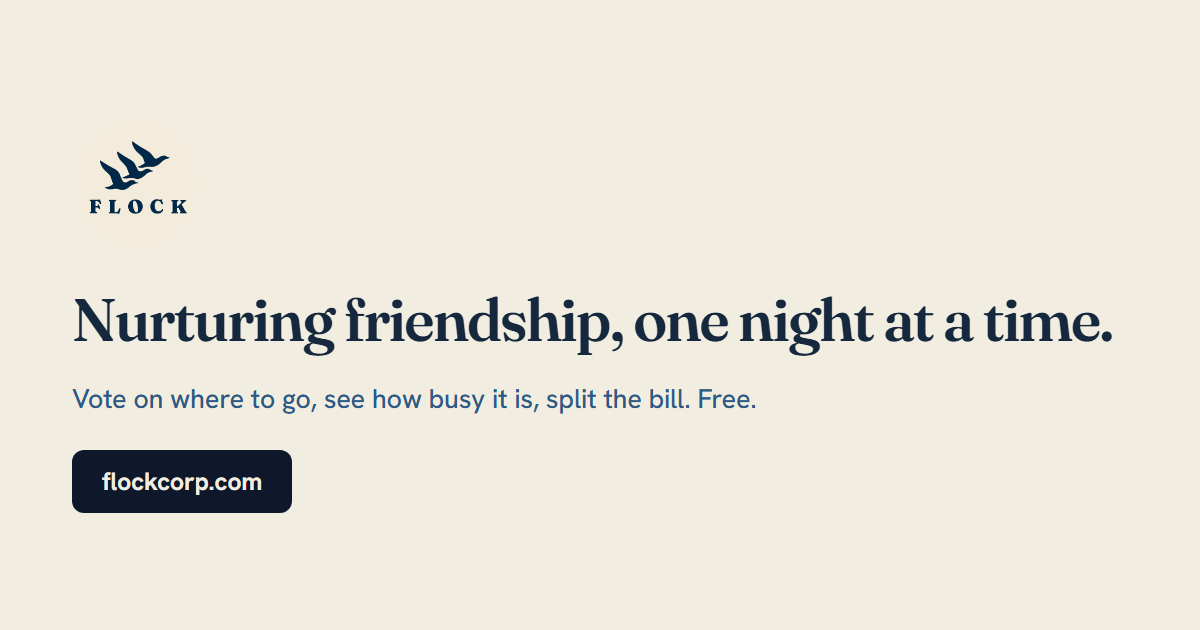
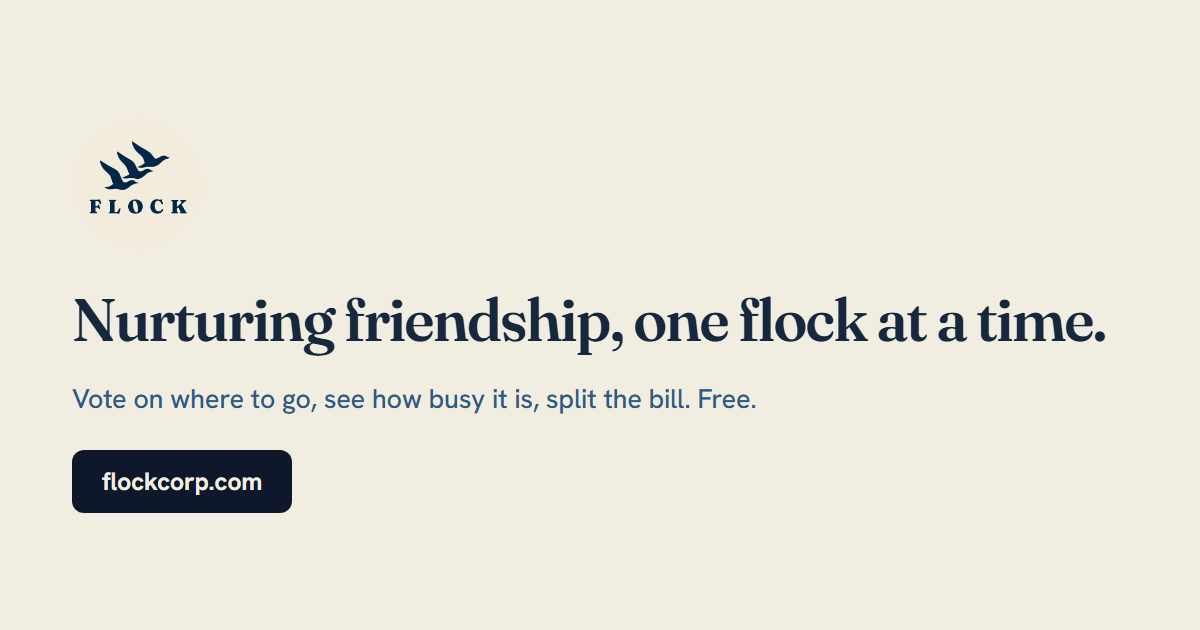
Tagline is "Nurturing friendship, one flock at a time"

Changed region(s): [[0.6167, 0.4524, 0.925, 0.573]]

diff --git a/frontend/public/index.html b/frontend/public/index.html
@@ -141,21 +141,21 @@
            PAYWALL_ENABLED is unset; if the paywall is ever switched on, this
            copy and the landing page change together.
          ═══════════════════════════════════════════════════════════════════ -->
-    <meta property="og:title" content="Flock | Plans that actually happen" />
+    <meta property="og:title" content="Flock | Nurturing friendship, one flock at a time" />
     <meta property="og:description" content="Vote on where to go, see how busy it is before you leave, and split the bill after. Free." />
     <meta property="og:image" content="https://www.flockcorp.com/og-image.png" />
     <meta property="og:image:width" content="1200" />
     <meta property="og:image:height" content="630" />
     <meta property="og:image:type" content="image/png" />
-    <meta property="og:image:alt" content="Flock. Nurturing friendship, one night at a time." />
+    <meta property="og:image:alt" content="Flock. Nurturing friendship, one flock at a time." />
     <meta property="og:type" content="website" />
     <meta property="og:site_name" content="Flock" />
     <meta property="og:locale" content="en_US" />
     <meta name="twitter:card" content="summary_large_image" />
-    <meta name="twitter:title" content="Flock | Plans that actually happen" />
+    <meta name="twitter:title" content="Flock | Nurturing friendship, one flock at a time" />
     <meta name="twitter:description" content="Vote on where to go, see how busy it is before you leave, and split the bill after. Free." />
     <meta name="twitter:image" content="https://www.flockcorp.com/og-image.png" />
-    <meta name="twitter:image:alt" content="Flock. Nurturing friendship, one night at a time." />
+    <meta name="twitter:image:alt" content="Flock. Nurturing friendship, one flock at a time." />
 
     <!-- Icons. The sizes below are the real contents of each file, not a wish
          list: favicon.ico is a 3-image ICO (16/32/48, verified by reading its
@@ -192,7 +192,7 @@
     <link rel="preconnect" href="https://api.flockcorp.com" crossorigin />
 
     <link rel="manifest" href="%PUBLIC_URL%/manifest.json" />
-    <title>Flock | Plans that actually happen</title>
+    <title>Flock | Nurturing friendship, one flock at a time</title>
 
     <!-- ═══════════════════════════════════════════════════════════════════
          STRUCTURED DATA (JSON-LD)

diff --git a/frontend/api/marketing-page.js b/frontend/api/marketing-page.js
@@ -102,7 +102,7 @@
 
 const CANONICAL_HOST = 'https://www.flockcorp.com';
 const OG_IMAGE = CANONICAL_HOST + '/og-image.png';
-const OG_IMAGE_ALT = 'Flock. Nurturing friendship, one night at a time.';
+const OG_IMAGE_ALT = 'Flock. Nurturing friendship, one flock at a time.';
 const CONTACT_EMAIL = 'social@flockcorp.com';
 
 // Title and description per route mirror what each React page writes via its
@@ -111,7 +111,7 @@ const CONTACT_EMAIL = 'social@flockcorp.com';
 const PAGE_META = {
   home: {
     path: '/',
-    title: 'Flock | Plans that actually happen',
+    title: 'Flock | Nurturing friendship, one flock at a time',
     description: 'Flock turns “we should hang out” into a real night out. Vote on where to go, see how busy it is before you leave, split the bill, and go.',
   },
   about: {
@@ -140,7 +140,7 @@ const PAGE_META = {
 // drift test told you to; see the regeneration note in the header.
 const PAGE_BLOCKS = {
   home: [
-    ["h1", "Nurturing friendship, one night at a time."],
+    ["h1", "Nurturing friendship, one flock at a time."],
     ["p", "Start a flock, invite your people, and vote on where to go. Everyone ends up on the same plan without the 200-message thread."],
     ["p", "Free, and it runs in your browser right now, so there’s nothing to download. Flock took 1st place at PA DECA States."],
     ["h2", "Six people say yes. Then the chat goes quiet."],
@@ -1019,7 +1019,7 @@ async function handler(req, res) {
     console.error('marketing-page: fallback document:', (err && err.name) || 'Error');
     try {
       send(res, '<!doctype html>\n<html lang="en"><head><meta charset="utf-8">'
-        + '<title>Flock | Plans that actually happen</title>'
+        + '<title>Flock | Nurturing friendship, one flock at a time</title>'
         + '<meta name="description" content="Flock is a free group planning app. Vote on where to go, see how busy it is before you leave, and split the bill after.">'
         + '</head><body><main><h1>Flock</h1>'
         + '<p>Flock is a free group planning app. Start a flock, invite your people, vote on where to go, match budgets privately, and split the bill after.</p>'

diff --git a/frontend/api/invite-preview.js b/frontend/api/invite-preview.js
@@ -8,7 +8,7 @@ const crypto = require('crypto');
 // WHY THIS EXISTS
 // One index.html is served for every route (CRA has no server rendering), so
 // an invite shared into iMessage or a group chat previews with the marketing
-// tags: "Flock | Plans that actually happen". The link that spreads the product
+// tags: "Flock | Nurturing friendship, one flock at a time". The link that spreads the product
 // says nothing about who sent it or what it is. This function answers the
 // preview bots instead, with the host's first name and the plan.
 //
@@ -133,7 +133,7 @@ const CANONICAL_HOST = 'https://www.flockcorp.com';
 // apex -> www redirect when fetching an image. Same file and same dimensions as
 // the default tags in public/index.html; keep them in sync.
 const OG_IMAGE = CANONICAL_HOST + '/og-image.png';
-const OG_IMAGE_ALT = 'Flock. Nurturing friendship, one night at a time.';
+const OG_IMAGE_ALT = 'Flock. Nurturing friendship, one flock at a time.';
 
 // The per-flock card URL carries a signature when OG_CARD_SECRET is set. The
 // Cloudflare Pages project and the API service hold that secret; Vercel never
@@ -203,7 +203,7 @@ const DISPLAY_TZ = 'America/New_York';
 
 // Verbatim from public/index.html, so a fallback preview is indistinguishable
 // from what the site serves today.
-const DEFAULT_TITLE = 'Flock | Plans that actually happen';
+const DEFAULT_TITLE = 'Flock | Nurturing friendship, one flock at a time';
 const DEFAULT_DESCRIPTION =
   'Vote on where to go, see how busy it is before you leave, and split the bill after. Free.';
 

diff --git a/frontend/src/__tests__/guestInviteRebuild.test.js b/frontend/src/__tests__/guestInviteRebuild.test.js
@@ -1041,7 +1041,7 @@ describe('invite-preview: the card the link draws in a group chat', () => {
     // and fixed. The regex here read {8,20} while newLinkToken mints
     // LINK_TOKEN_LENGTH = 24, so EVERY invite link created since that widening
     // failed the shape test, took the generic-tags branch, and previewed in
-    // iMessage as "Flock | Plans that actually happen" with no host, no plan
+    // iMessage as "Flock | Nurturing friendship, one flock at a time" with no host, no plan
     // and no time. Only the legacy 12-character tokens still previewed.
     expect(preview.TOKEN_RE.test(NEW_TOKEN)).toBe(true);
     expect(preview.readToken({ query: { token: NEW_TOKEN } })).toBe(NEW_TOKEN);
@@ -1080,7 +1080,7 @@ describe('invite-preview: the card the link draws in a group chat', () => {
     expect(copy.title).toBe('Maya invited you to Friday Night Out');
     expect(copy.description).toMatch(/Good Dog Bar/);
     expect(copy.description).toMatch(/3 going/);
-    expect(copy.title).not.toMatch(/Plans that actually happen/);
+    expect(copy.title).not.toMatch(/Nurturing friendship, one flock at a time/);
   });
 
   test('a cancelled plan is not previewed as an invitation', () => {

diff --git a/frontend/src/website/LandingPage.js b/frontend/src/website/LandingPage.js
@@ -337,7 +337,7 @@ export default function LandingPage() {
   }, [menuOpen]);
 
   useEffect(() => {
-    document.title = 'Flock | Plans that actually happen';
+    document.title = 'Flock | Nurturing friendship, one flock at a time';
     const d = document.querySelector('meta[name="description"]');
     if (d) d.setAttribute('content', 'Flock turns “we should hang out” into a real night out. Vote on where to go, see how busy it is before you leave, split the bill, and go.');
   }, []);
@@ -491,7 +491,7 @@ export default function LandingPage() {
           {/* "they happen." is held together: text-wrap balance, pretty and
               auto all break this sentence 4+1 at phone widths and leave
               "happen." alone on line four. */}
-          <h1 id="lp-h-hero">Nurturing friendship, <span className="lp-keep">one night at a time.</span></h1>
+          <h1 id="lp-h-hero">Nurturing friendship, <span className="lp-keep">one flock at a time.</span></h1>
 
           <div className="lp-hero-copy">
             <p className="lp-lead">

diff --git a/frontend/src/__tests__/aiDisclosureAndAppTitle.test.js b/frontend/src/__tests__/aiDisclosureAndAppTitle.test.js
@@ -26,7 +26,7 @@
  *    other suite's equality to carry it.
  *
  * 2. THE APP HAD NO TITLE OF ITS OWN.
- *    public/index.html ships "Flock | Plans that actually happen", and every
+ *    public/index.html ships "Flock | Nurturing friendship, one flock at a time", and every
  *    marketing and legal page overwrites it in a mount effect. App.js wrote
  *    document.title exactly zero times, so /app, every screen in it, and any
  *    bookmark made from it read as the landing page's ad copy. Asserted by
@@ -179,7 +179,7 @@ describe('the logged-in app has a title of its own', () => {
     expect(writes.length).toBeGreaterThan(0);
     expect(writes).toContain("document.title = 'Flock'");
     for (const write of writes) {
-      expect(write).not.toMatch(/Plans that actually happen/i);
+      expect(write).not.toMatch(/Nurturing friendship, one flock at a time/i);
     }
   });
 

diff --git a/frontend/src/components/auth/PasswordReset.js b/frontend/src/components/auth/PasswordReset.js
@@ -200,7 +200,7 @@ export const ResetPasswordScreen = ({ onSignIn, onRequestNew }) => {
   // window.location.href. Scrubbing to "/" also means a refresh lands on
   // sign-in rather than on a screen holding a token it no longer has.
   /* NAME THE PAGE. Every marketing and legal route sets its own title and
-     this one did not, so it inherited "Flock | Plans that actually happen" —
+     this one did not, so it inherited "Flock | Nurturing friendship, one flock at a time" —
      on the page people arrive at from a password-reset email, which is the
      worst place to be vague about where they have landed. */
   useEffect(() => { document.title = 'Reset your password | Flock'; }, []);

diff --git a/frontend/src/__tests__/cloudflarePagesFunctions.test.js b/frontend/src/__tests__/cloudflarePagesFunctions.test.js
@@ -317,7 +317,7 @@ describe('who gets what', () => {
     const generic = async (route) => {
       const { res } = await run(SITE + route, { headers: { 'User-Agent': UA.twitterbot } });
       expect([route, res.status]).toEqual([route, 200]);
-      expect(await res.text()).toContain('<title>Flock | Plans that actually happen</title>');
+      expect(await res.text()).toContain('<title>Flock | Nurturing friendship, one flock at a time</title>');
       expect(res.headers.get('Cache-Control')).toBe('private, no-store, max-age=0');
     };
     await generic('/i/RevokedToken123');

diff --git a/frontend/src/services/api.js b/frontend/src/services/api.js
@@ -2595,7 +2595,7 @@ export async function unpinFlockMessage(flockId, messageId) {
 // exactly; anything else is rejected here rather than spending a round trip.
 const FLOCK_STATUSES = ['planning', 'confirmed', 'completed', 'cancelled'];
 
-// "Nurturing friendship, one night at a time" is the promise on the landing
+// "Nurturing friendship, one flock at a time" is the promise on the landing
 // page, and this is the event that tests it. A flock that never leaves
 // 'planning' is a night that never happened, which is the exact failure the
 // product claims to prevent. `status`

diff --git a/frontend/src/components/auth/LoginScreen.js b/frontend/src/components/auth/LoginScreen.js
@@ -251,7 +251,7 @@ const LoginScreen = ({ onLoginSuccess, onSwitchToSignup, onSwitchToVenueLogin })
     <>
       <img className="auth-mark" src="/logo192.png" alt="" aria-hidden="true" />
       <h1 className="auth-h1">{hasSignedInHere ? 'Welcome back' : 'Plan the night'}</h1>
-      <p className="auth-sub">Nurturing friendship, one night at a time.</p>
+      <p className="auth-sub">Nurturing friendship, one flock at a time.</p>
     </>
   );
 

diff --git a/frontend/src/__tests__/aiCrawlerSurface.test.js b/frontend/src/__tests__/aiCrawlerSurface.test.js
@@ -338,7 +338,7 @@ describe('the handler', () => {
       const res = fakeRes();
       await api({ query, url: '/api/marketing-page' }, res);
       expect(res.statusCode).toBe(200);
-      expect(res.body).toContain('Nurturing friendship, one night at a time.');
+      expect(res.body).toContain('Nurturing friendship, one flock at a time.');
     }
   });
 
